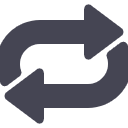
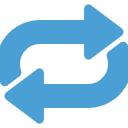
added indicators for reminder and recurrence

diff --git a/src/todolist/ui/views/DefaultTheme.css b/src/todolist/ui/views/DefaultTheme.css
@@ -221,10 +221,6 @@
     -fx-font-weight: bold;
 }
 
-#home-icon:hover {
-    -fx-image: url("img/home-hover.png");
-}
-
 #new-button {
     -fx-background-color: 
         #000000,

diff --git a/src/todolist/ui/controllers/TaskNodeController.java b/src/todolist/ui/controllers/TaskNodeController.java
@@ -10,6 +10,7 @@ import com.sun.media.jfxmedia.logging.Logger;
 
 import todolist.MainApp;
 import todolist.model.Category;
+import todolist.model.Reminder;
 import todolist.ui.TaskWrapper;
 import javafx.fxml.FXML;
 import javafx.fxml.FXMLLoader;
@@ -114,15 +115,14 @@ public class TaskNodeController {
     private Rectangle statusBacking = null;
     @FXML
     private Label status = null;
-    
+
     // Indicators
     @FXML
     private VBox indicatorsHolder = null;
     @FXML
     private ImageView recurringIndicator = null;
-    private static final int recurring = 1;
-    private static final int reminder = 2;
-    
+    @FXML
+    private ImageView reminderIndicator = null;
 
     public TaskNodeController(TaskWrapper task, int index) throws IllegalArgumentException {
         FXMLLoader fxmlLoader = new FXMLLoader(MainApp.class.getResource(MainApp.DIRECTORY_TASKITEM));
@@ -152,6 +152,7 @@ public class TaskNodeController {
         String taskTitle = task.getTaskTitle();
         Category category = task.getCategory();
         String categoryName = null;
+        Reminder reminder = task.getReminder();
         LocalDateTime startDateTime = task.getStartTime();
         LocalDateTime endDateTime = task.getEndTime();
 
@@ -202,9 +203,16 @@ public class TaskNodeController {
             statusBacking.setFill(Color.web(COLOR_INCOMPLETE));
             status.setText(DISPLAY_ITEM_UNARCHIVED);
         }
-        
+
         // Recurring Status
         recurringIndicator.setVisible(task.isRecurring());
+
+        // Reminder Status
+        if (reminder == null) {
+            reminderIndicator.setVisible(false);
+        } else {
+            reminderIndicator.setVisible(reminder.getStatus());
+        }
     }
 
     public HBox getNode() {

diff --git a/src/todolist/ui/TaskWrapper.java b/src/todolist/ui/TaskWrapper.java
@@ -30,7 +30,6 @@ public class TaskWrapper {
         this.isDone = new SimpleObjectProperty<Boolean>(task.getDoneStatus());
         this.isRecurring = new SimpleObjectProperty<Boolean>(task.getRecurringStatus());
         this.interval = new SimpleObjectProperty<String>(task.getInterval());
-
     }
 
     public StringProperty taskTitleProperty() {
